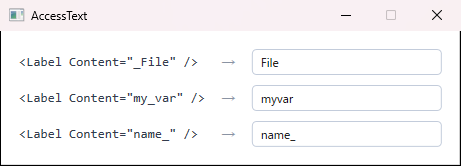
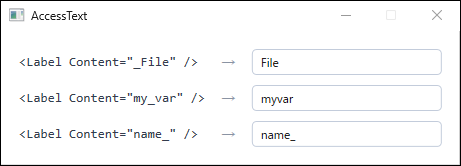
キャプチャのタイトルバー・背景を環境非依存の中立色に固定
Windows のアクセントカラー設定がタイトルバーと Mica 背景に反映され、
撮影環境ごとにスクリーンショットの色が変わる状態を解消する。
Windows の設定は変更せず、DwmSetWindowAttribute でウィンドウ単位に指定する。

- Capture.ApplyNeutralChrome を追加（タイトルバー・文字色・枠色の固定、Mica の無効化）
- Fluent のシーンは Mica 無効化に合わせて背景色を明示
- 既存のスクリーンショット 4 枚を撮り直し（寸法は変更なし）
- README: コントロール内部のアクセント色は OS 設定がそのまま出る点を明記

diff --git a/tools/screenshot-capture/Capture.cs b/tools/screenshot-capture/Capture.cs
@@ -37,8 +37,50 @@ internal static class Capture
         public int Bottom;
     }
 
+    [DllImport("dwmapi.dll")]
+    private static extern int DwmSetWindowAttribute(IntPtr hwnd, int attribute, ref int value, int size);
+
     /// <summary>DWMWA_EXTENDED_FRAME_BOUNDS。影を除いた実際の枠を得る。</summary>
     private const int DwmwaExtendedFrameBounds = 9;
+
+    // Windows 11 (build 22000 以降) のウィンドウ枠を明示的に指定する属性。
+    private const int DwmwaBorderColor = 34;
+    private const int DwmwaCaptionColor = 35;
+    private const int DwmwaTextColor = 36;
+    private const int DwmwaSystemBackdropType = 38;
+
+    /// <summary>DWMSBT_NONE。Mica を無効化する。</summary>
+    private const int DwmsbtNone = 1;
+
+    /// <summary>
+    /// タイトルバーと枠の色を固定する。
+    /// 既定では Windows のアクセントカラーと Mica の背景が反映され、
+    /// 撮影した環境によってスクリーンショットの色が変わってしまうため、
+    /// 記事に載せる図では既定のニュートラルな配色へ揃える。
+    /// COLORREF は 0x00BBGGRR の順であることに注意する。
+    /// </summary>
+    public static void ApplyNeutralChrome(Window window)
+    {
+        IntPtr hwnd = new WindowInteropHelper(window).Handle;
+        if (hwnd == IntPtr.Zero)
+        {
+            return;
+        }
+
+        int backdrop = DwmsbtNone;
+        DwmSetWindowAttribute(hwnd, DwmwaSystemBackdropType, ref backdrop, sizeof(int));
+
+        int caption = ToColorRef(0xFF, 0xFF, 0xFF);
+        DwmSetWindowAttribute(hwnd, DwmwaCaptionColor, ref caption, sizeof(int));
+
+        int text = ToColorRef(0x1A, 0x1A, 0x1A);
+        DwmSetWindowAttribute(hwnd, DwmwaTextColor, ref text, sizeof(int));
+
+        int border = ToColorRef(0xD0, 0xD0, 0xD0);
+        DwmSetWindowAttribute(hwnd, DwmwaBorderColor, ref border, sizeof(int));
+    }
+
+    private static int ToColorRef(byte r, byte g, byte b) => r | (g << 8) | (b << 16);
 
     /// <summary>
     /// ウィンドウを表示し、レンダリングが落ち着くまで待ってから返す。
@@ -49,6 +91,7 @@ internal static class Capture
         window.Loaded += (_, _) => loaded.TrySetResult();
 
         window.Show();
+        ApplyNeutralChrome(window);
         window.Activate();
 
         await loaded.Task;

diff --git a/tools/screenshot-capture/Scenes/FluentClearButtonScene.cs b/tools/screenshot-capture/Scenes/FluentClearButtonScene.cs
@@ -54,6 +54,8 @@ internal sealed class FluentClearButtonScene : IScene
             Height = 150,
             ResizeMode = ResizeMode.CanMinimize,
             WindowStartupLocation = WindowStartupLocation.CenterScreen,
+            // Mica を無効化するため、Fluent の明るいテーマ相当の背景を明示する。
+            Background = new SolidColorBrush(Color.FromRgb(0xF3, 0xF3, 0xF3)),
             Content = new Border
             {
                 Padding = new Thickness(24),

diff --git a/tools/screenshot-capture/README.md b/tools/screenshot-capture/README.md
@@ -50,6 +50,12 @@ dotnet run --project tools/screenshot-capture -c Release -- wpf-label-underscore
   `RenderTargetBitmap` と異なり、タイトルバーとウィンドウ枠を含んだ実際の見た目が得られる。
 - ドロップシャドウ分の余白を除くため、`DwmGetWindowAttribute` の `DWMWA_EXTENDED_FRAME_BOUNDS` で
   切り出し範囲を求めている。
+- タイトルバー・枠の色と Mica 背景は `DwmSetWindowAttribute` でウィンドウ単位に固定している。
+  既定では OS のアクセントカラー設定が反映され、撮影環境ごとに図の色が変わってしまうため。
+  Windows の設定自体は変更しない。
+- ただし **コントロール内部のアクセント色（Fluent テーマのフォーカス下線など）は OS の設定がそのまま出る。**
+  テンプレートが実体化した後にリソースを差し替えても反映されないため、色を揃えたい場合は
+  撮影前に Windows の[設定] > [個人用設定] > [色]でアクセントカラーを既定に戻す。
 - 取得される画像は表示スケール 100%（96 DPI）のとき等倍になる。
   スケールを変更している環境では出力サイズが変わるため、記事の `width` / `height` 属性と合わなくなる。
 - `UseWPF` を有効にすると暗黙 using から `System.IO` が外れるため、`.csproj` で明示的に足している。
